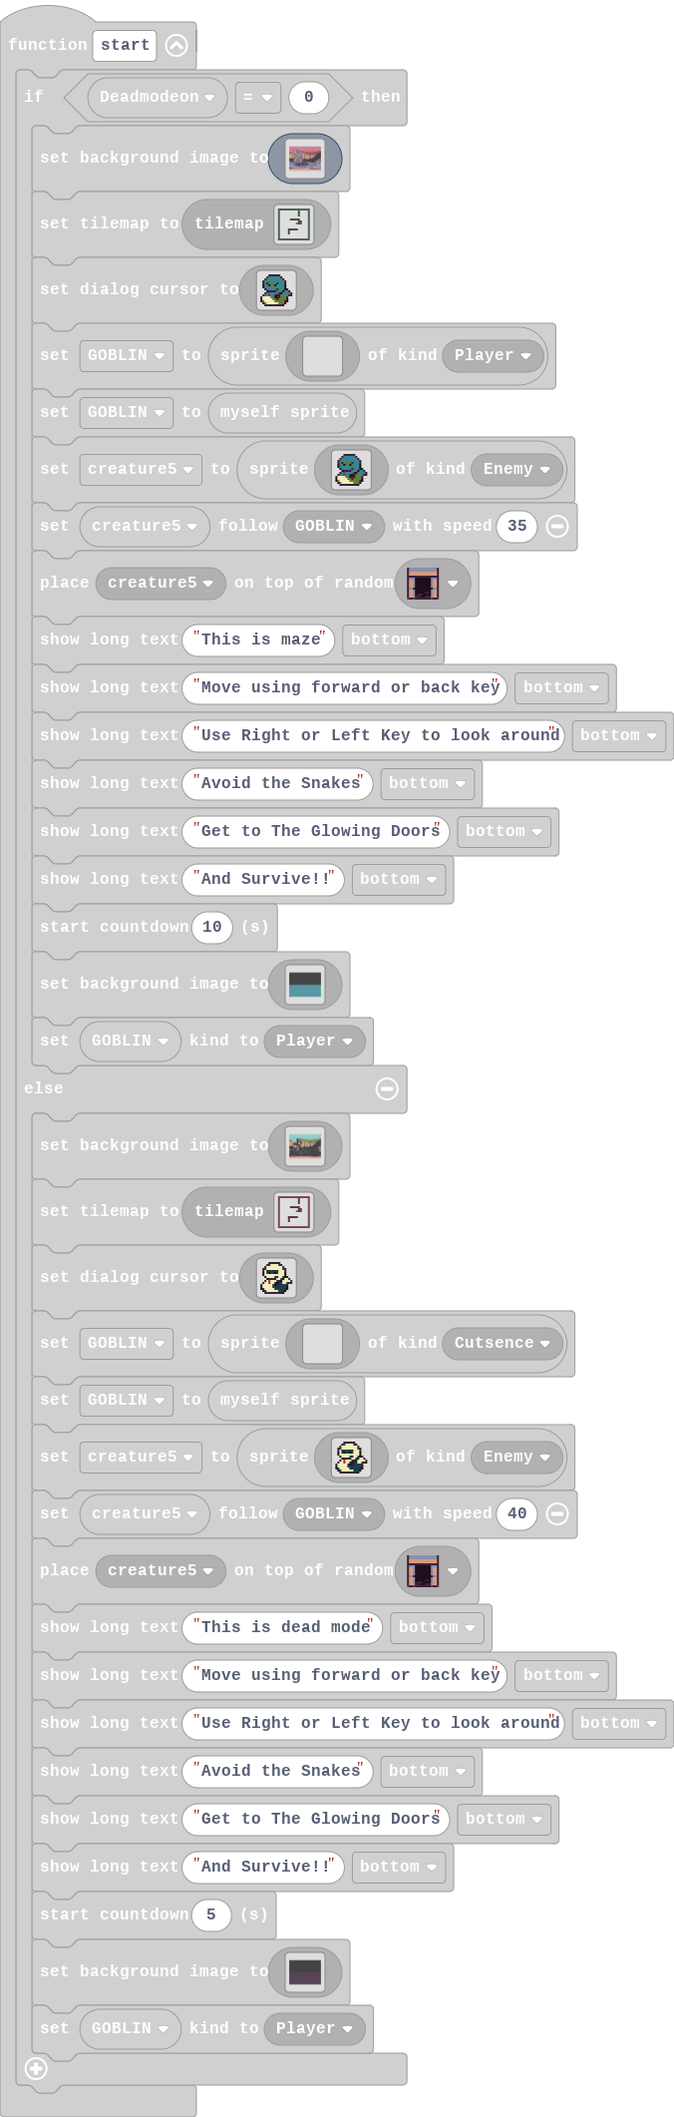
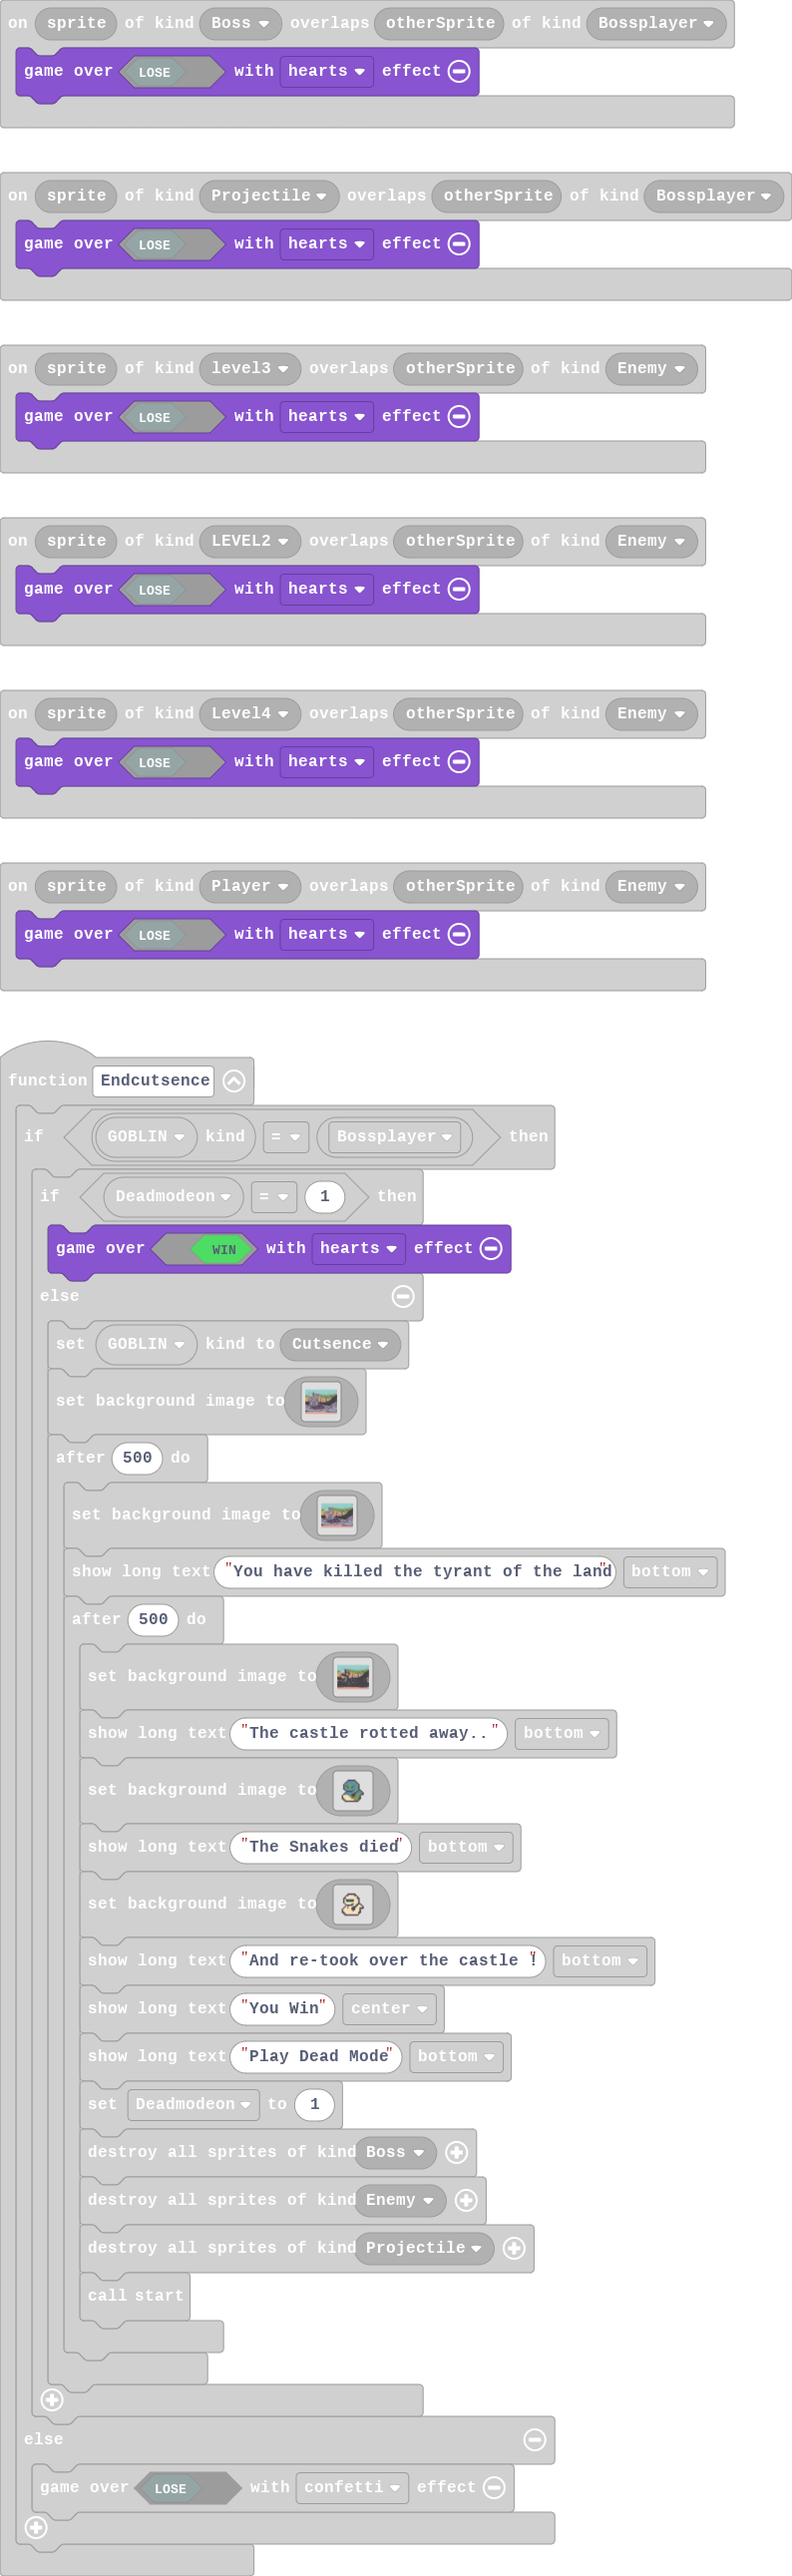
Update main.blocks, main.ts

diff --git a/main.ts b/main.ts
@@ -313,7 +313,7 @@ sprites.onOverlap(SpriteKind.level3, SpriteKind.Enemy, function (sprite, otherSp
 function Endcutsence () {
     if (GOBLIN.kind() == SpriteKind.Bossplayer) {
         if (Deadmodeon == 1) {
-            game.over(true, effects.confetti)
+            game.over(true, effects.hearts)
         } else {
             GOBLIN.setKind(SpriteKind.Cutsence)
             scene.setBackgroundImage(img`
